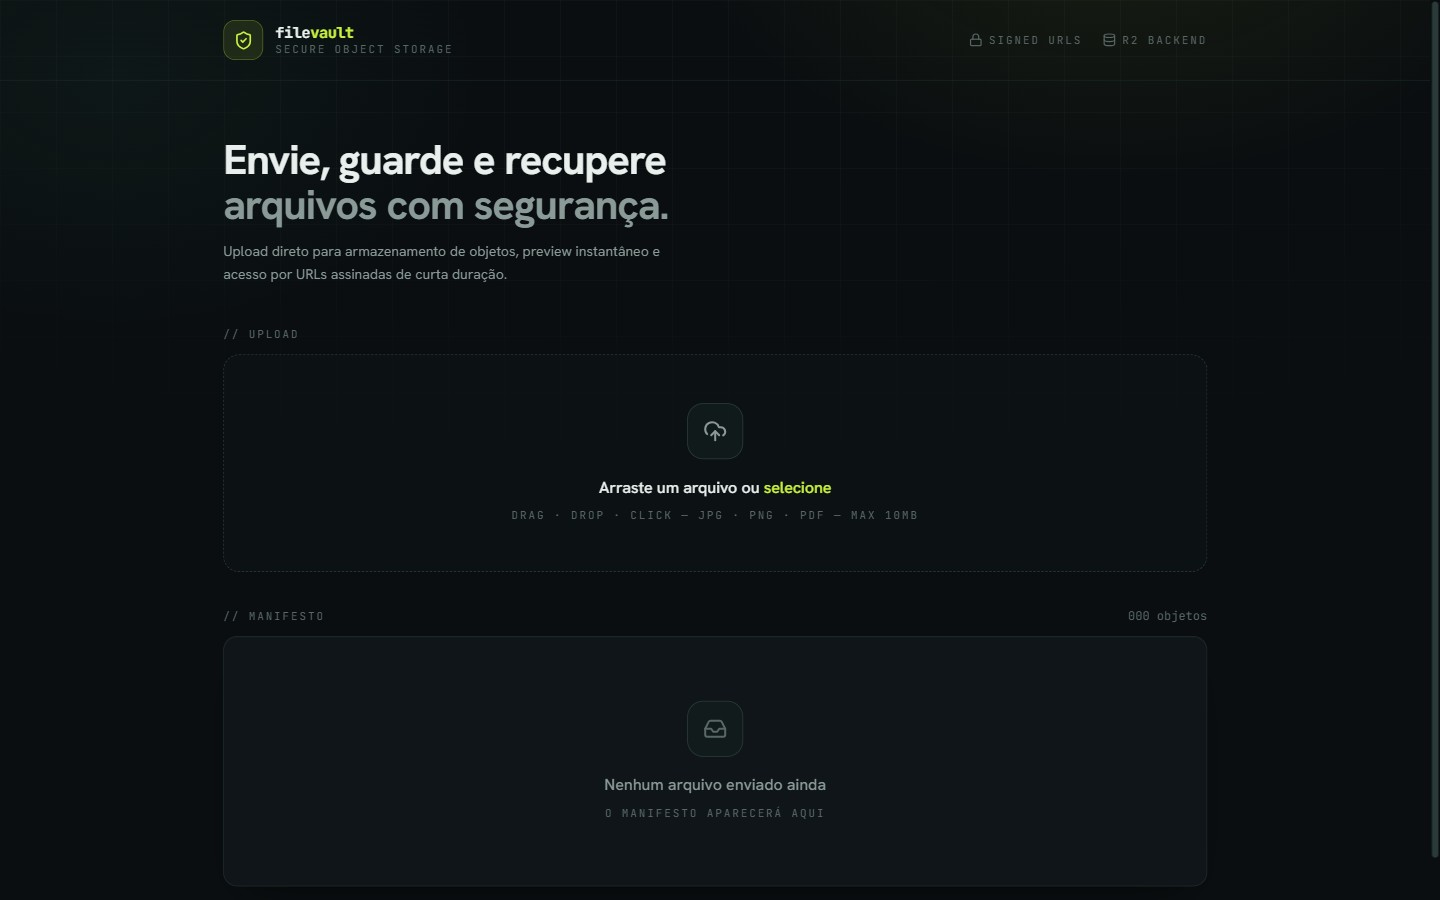
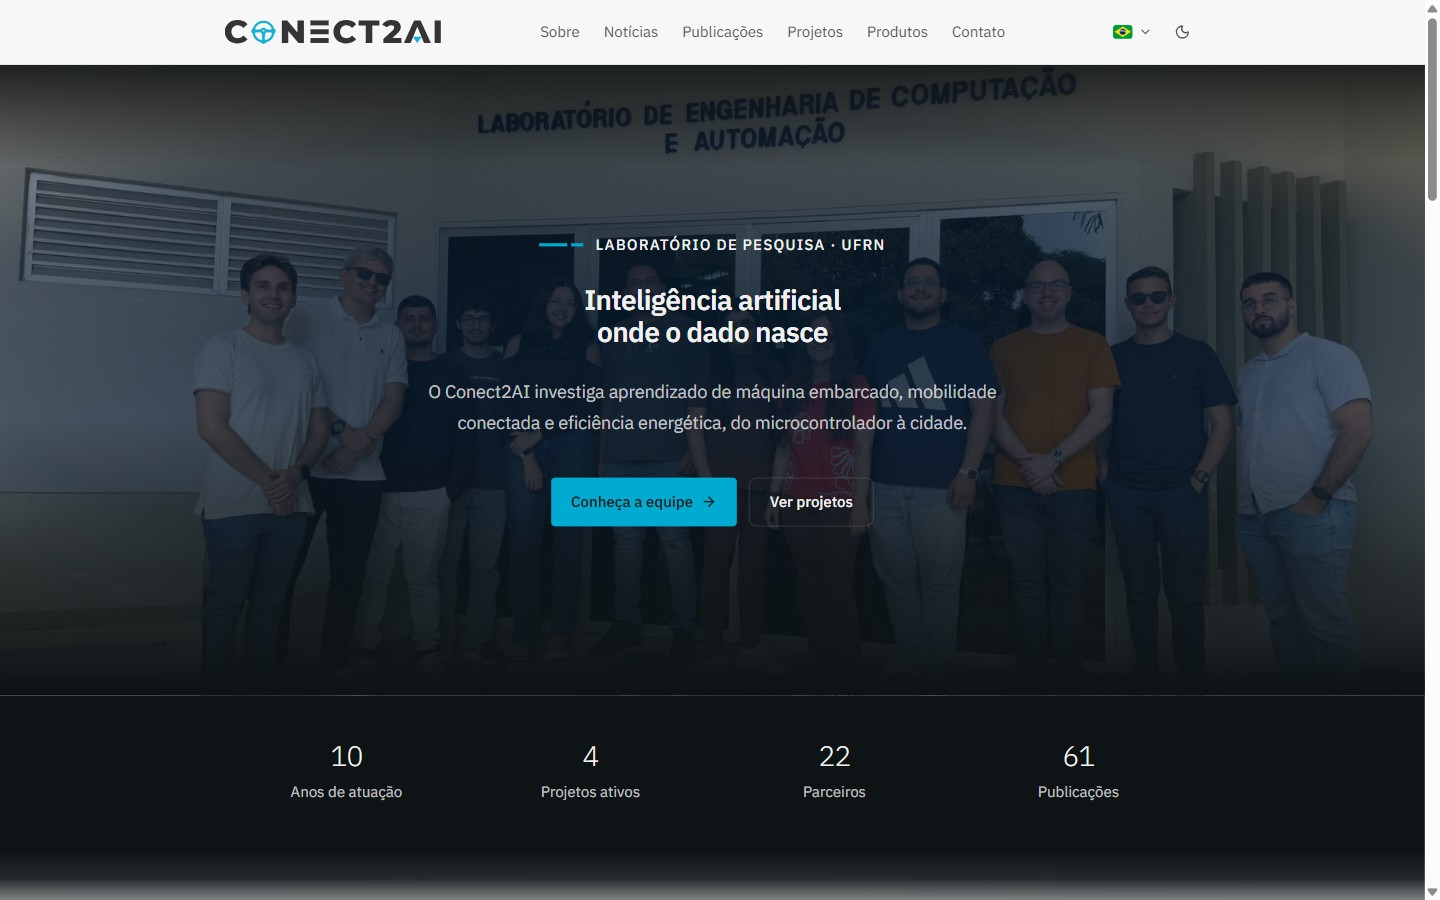
feat(assets): foto recortada, prints reais dos projetos e numeros conferidos

diff --git a/src/data/stats.ts b/src/data/stats.ts
@@ -2,11 +2,11 @@ import type { Stat } from '../types';
 
 // Cada número tem fonte conferível. Reconferir antes de cada publicação.
 export const stats: Stat[] = [
-  // sellerscope.com.br lista Shopee, Mercado Livre e TikTok Shop com "Instalar no Chrome";
-  // conferido pelo endpoint de atualização da Chrome Web Store.
+  // Endpoint de atualização da Chrome Web Store, 14/10/2026: Shopee 2.7.4, ML 1.0.7, TikTok 1.0.3.
   { value: 3, label: { pt: 'extensões publicadas na Chrome Web Store', en: 'extensions published on the Chrome Web Store' } },
-  // SellerScope, site do Conect2AI, Zoonoses e Leo & Helena respondendo no ar.
-  { value: 4, label: { pt: 'sistemas em produção que eu mantenho', en: 'production systems I maintain' } },
+  // No ar em 14/10/2026: sellerscope.com.br, demo do Zoonoses, leoehelena.vercel.app.
+  // O site novo do Conect2AI ainda não está publicado (o domínio serve o antigo).
+  { value: 3, label: { pt: 'sistemas em produção que eu mantenho', en: 'production systems I maintain' } },
   // 10/2022 (SEEC/RN) até hoje.
   { value: 4, label: { pt: 'anos desenvolvendo e mantendo sistemas', en: 'years building and maintaining systems' } },
   // DOI 10.5753/sbseg.2026.27136

diff --git a/src/data/projects.ts b/src/data/projects.ts
@@ -33,7 +33,8 @@ export const featured: Project[] = [
       en: 'Website and admin panel for the Conect2AI lab (DCA/UFRN), from data modeling to UI. Role-based access, review before publishing, append-only audit trail exportable to CSV, Excel, PDF and Word, and a three-language site with translated URLs.',
     },
     stack: ['Fastify', 'Prisma', 'PostgreSQL', 'Next.js', 'Docker'],
-    links: { site: 'https://conect2ai.dca.ufrn.br' },
+    // conect2ai.dca.ufrn.br ainda serve o site antigo (14/10/2026); sem link até o novo ir ao ar.
+    links: {},
     private: true,
     shot: shotConect2ai,
     shotAlt: { pt: 'Página inicial do site do Conect2AI', en: 'Conect2AI website home page' },

diff --git a/scripts/prepare-photo.py b/scripts/prepare-photo.py
@@ -1,0 +1,36 @@
+"""Recorta o fundo da foto e exporta os tamanhos usados no site.
+
+Uso (fora do build, com um venv que tenha rembg e Pillow):
+    python -I scripts/prepare-photo.py <foto-original.jpg> src/assets/me
+
+O original nunca entra no repositório; só os recortes otimizados.
+"""
+import sys
+from pathlib import Path
+
+from PIL import Image
+from rembg import new_session, remove
+
+
+def main(src: str, out_dir: str) -> None:
+    out = Path(out_dir)
+    out.mkdir(parents=True, exist_ok=True)
+    cut = remove(Image.open(src), session=new_session("birefnet-portrait")).convert("RGBA")
+
+    bbox = cut.getchannel("A").point(lambda a: 255 if a > 8 else 0).getbbox()
+    cut = cut.crop(bbox)
+
+    h = 1200
+    big = cut.resize((round(cut.width * h / cut.height), h), Image.LANCZOS)
+    big.save(out / "leo-1200.webp", "WEBP", quality=86, method=6)
+    big.save(out / "leo-1200.png", optimize=True)
+
+    # Miniatura do cartão "Vamos conversar": rosto, quadrada.
+    face = cut.crop((int(cut.width * 0.18), 0, int(cut.width * 0.82), int(cut.width * 0.64)))
+    face.resize((160, 160), Image.LANCZOS).save(out / "leo-thumb.webp", "WEBP", quality=86)
+
+    print(big.size, "->", out)
+
+
+if __name__ == "__main__":
+    main(sys.argv[1], sys.argv[2])

diff --git a/docs/plans/2026-10-14-redesign.md b/docs/plans/2026-10-14-redesign.md
@@ -1604,7 +1604,7 @@ export default function Hero() {
         })}
       >
         <source srcSet={photoWebp} type="image/webp" />
-        <img src={photoPng} alt={t(ui.hero.photoAlt)} width={1016} height={1200} fetchPriority="high" className="h-full w-auto object-contain object-bottom" />
+        <img src={photoPng} alt={t(ui.hero.photoAlt)} width={894} height={1200} fetchPriority="high" className="h-full w-auto object-contain object-bottom" />
       </motion.picture>
 
       <div className="container-x relative z-20 flex flex-1 flex-col pb-8 pt-28">
